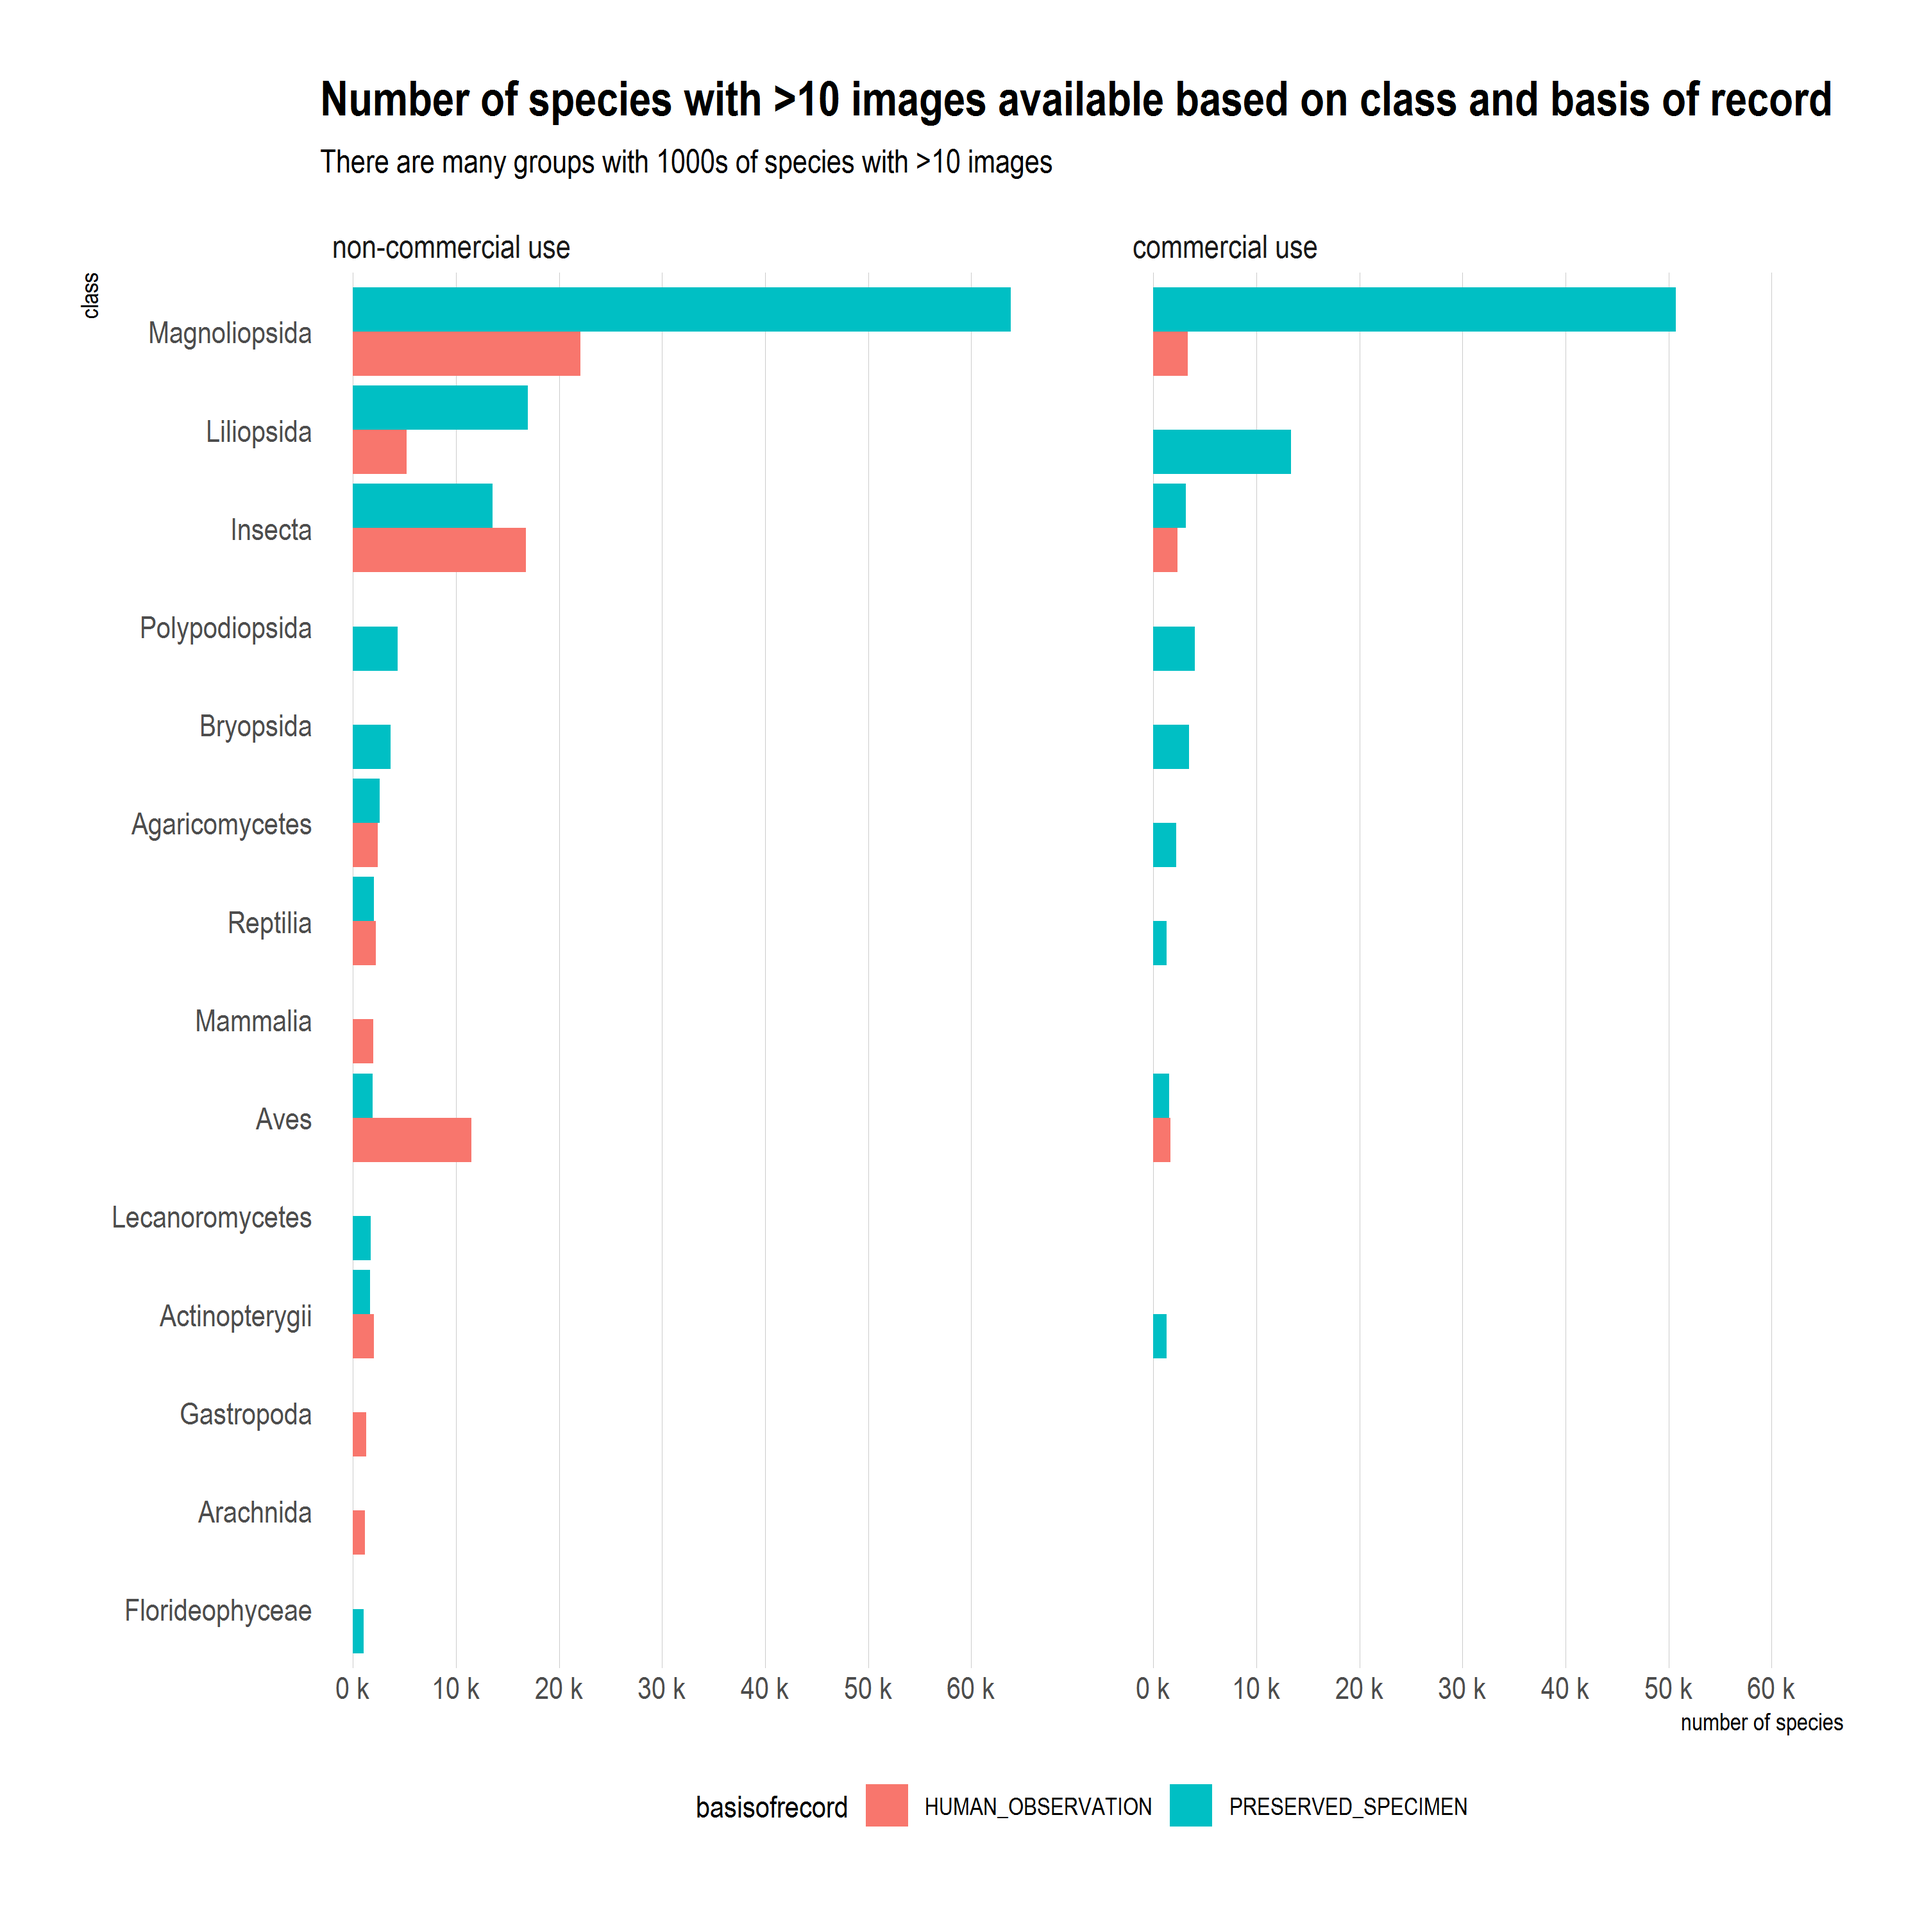
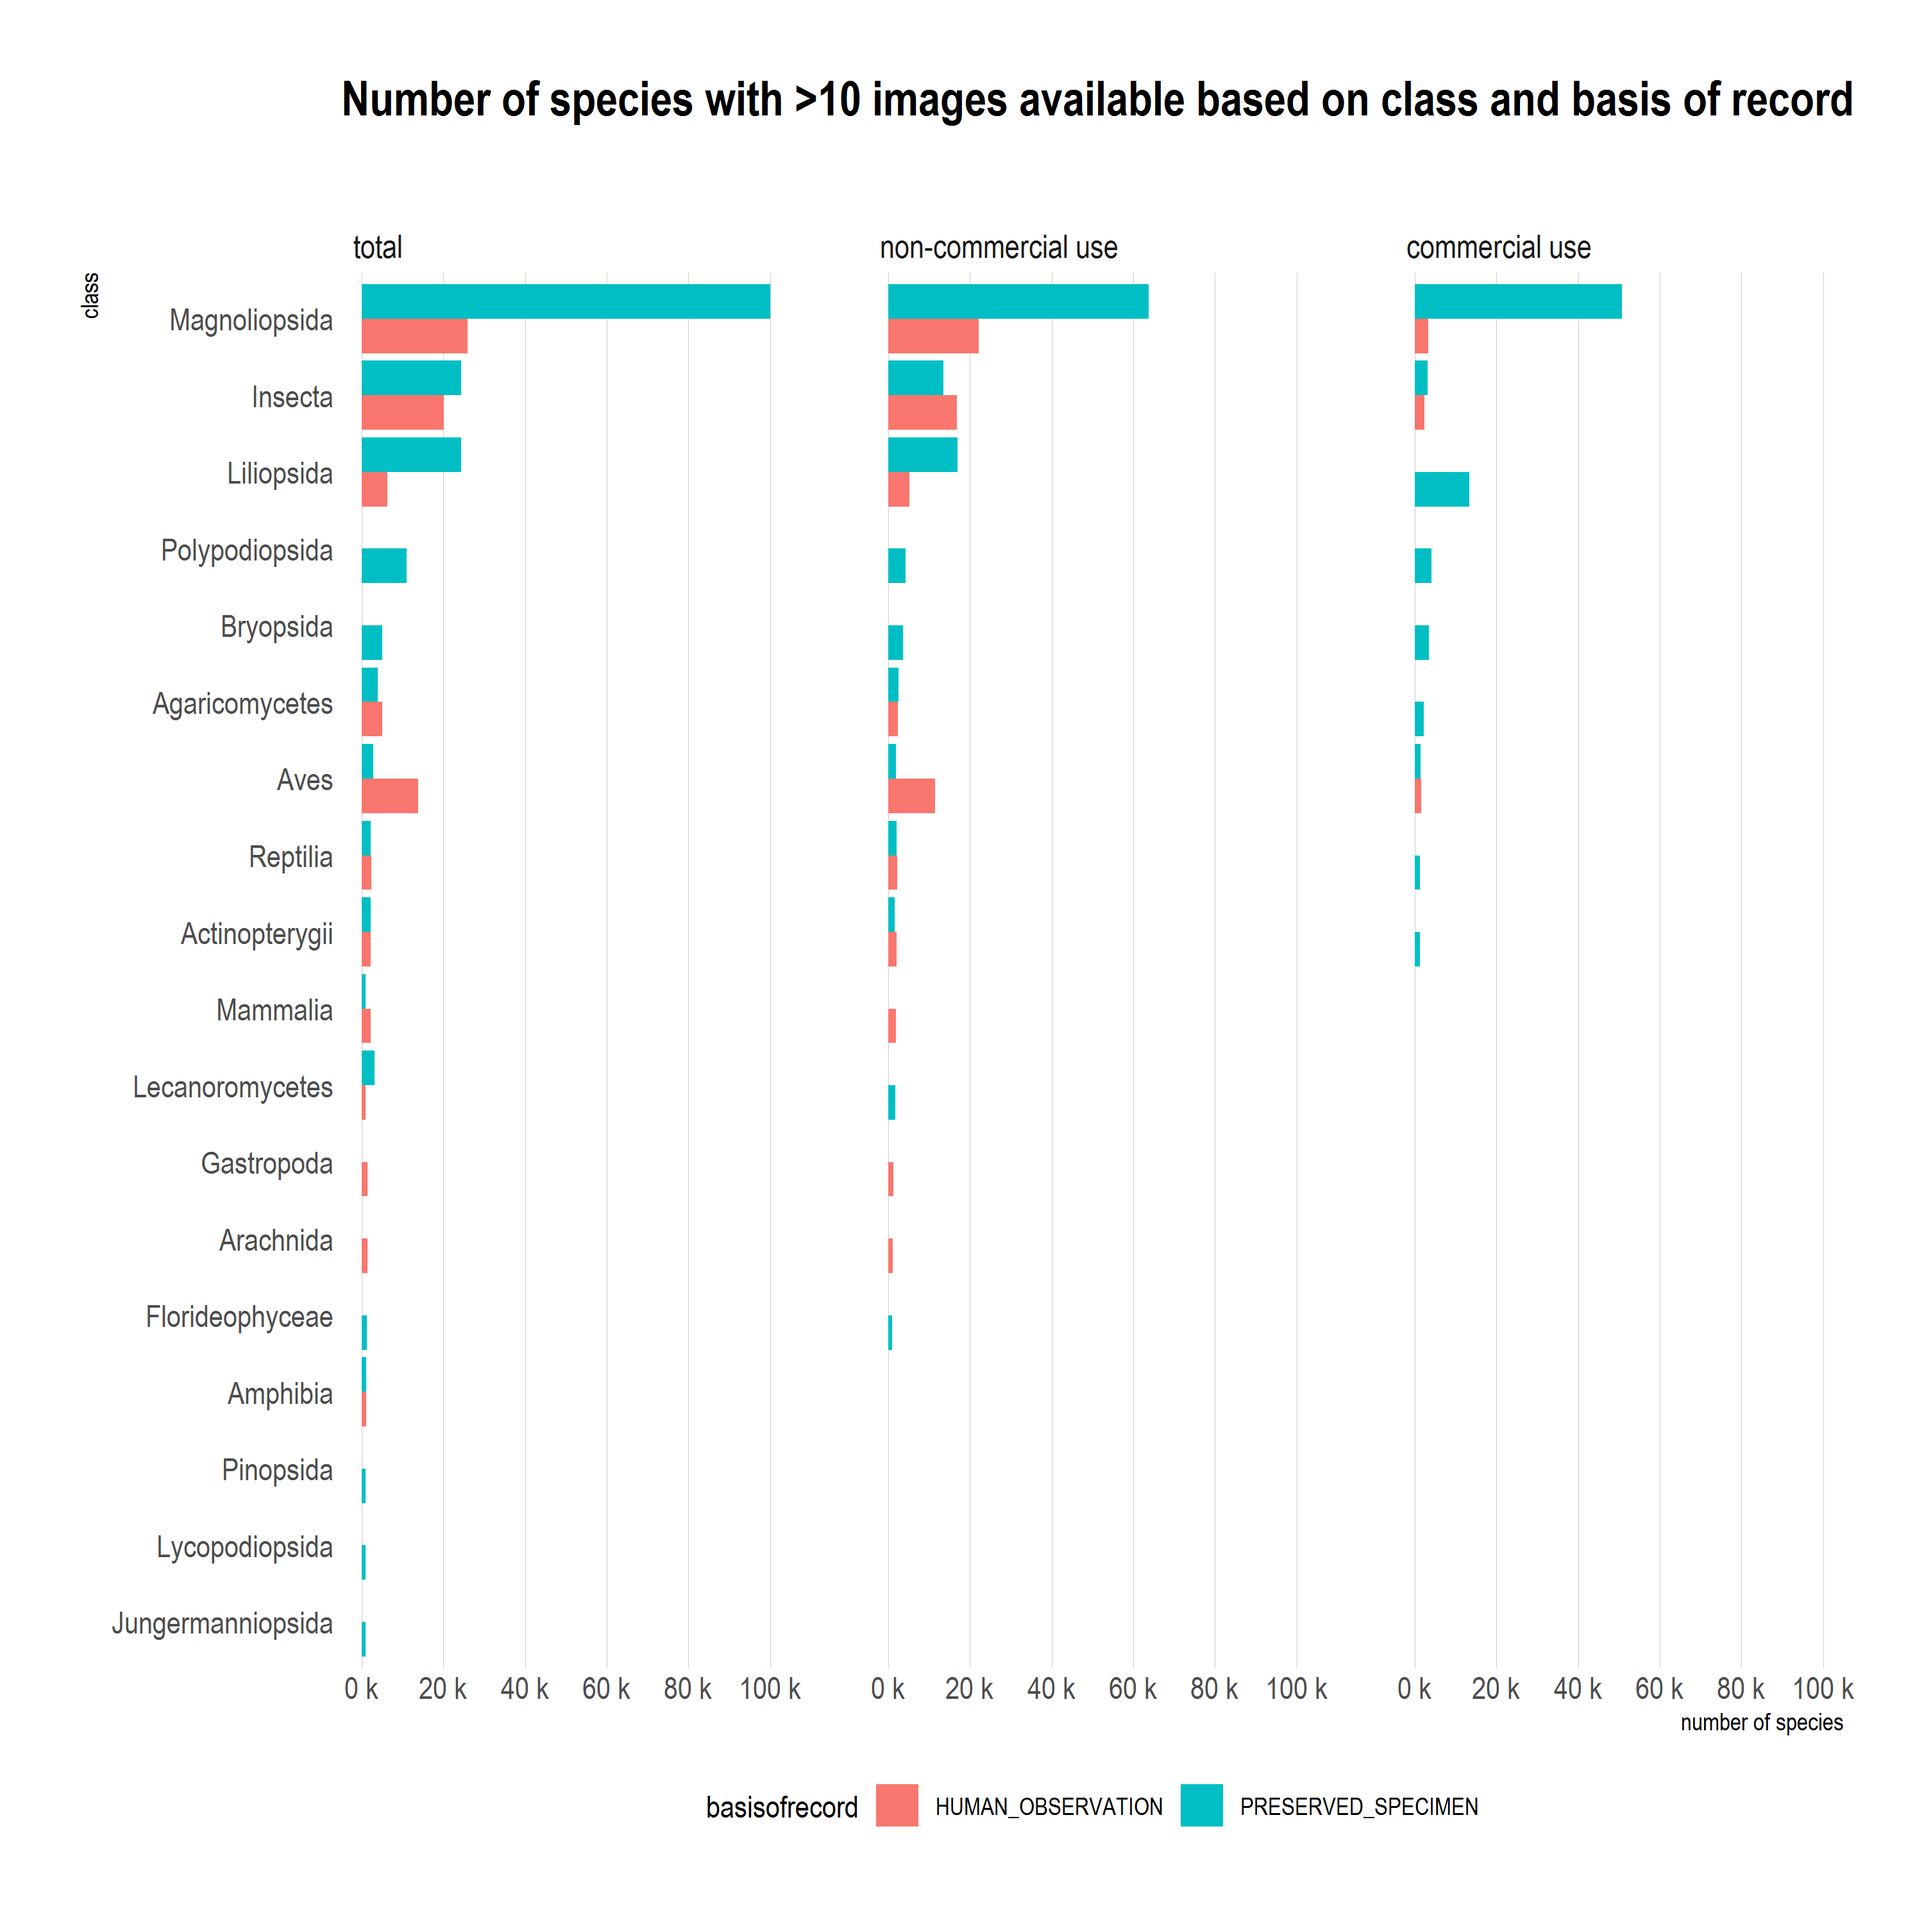
updating readme

diff --git a/README.md b/README.md
@@ -48,7 +48,7 @@ Here I look at what is the percentage coverage in a group.
 
 The global look for images for commercial use is even worse, although there is reasonable non-commercial image coverage. 
 
-**Species counts** were taken from **GBIF backbone** and probably should be interpreted with caution. Duplicates might explain why we see >100% in some cases. A better measure might be the total number of species for which we have **at least 1 occurrence**. Still this graph  shows us that **regional breakdowns** are probably necessary for an image dataset with good coverage. 
+**Species counts** were taken from **GBIF backbone** and probably should be interpreted with caution. A better measure might be the total number of species for which we have **at least 1 occurrence**. Still this graph  shows us that **regional breakdowns** are probably necessary for an image dataset with good coverage. 
 
 ![](https://raw.githubusercontent.com/jhnwllr/image-data/master/plots/percentageCoverageBarplot.png)
 
